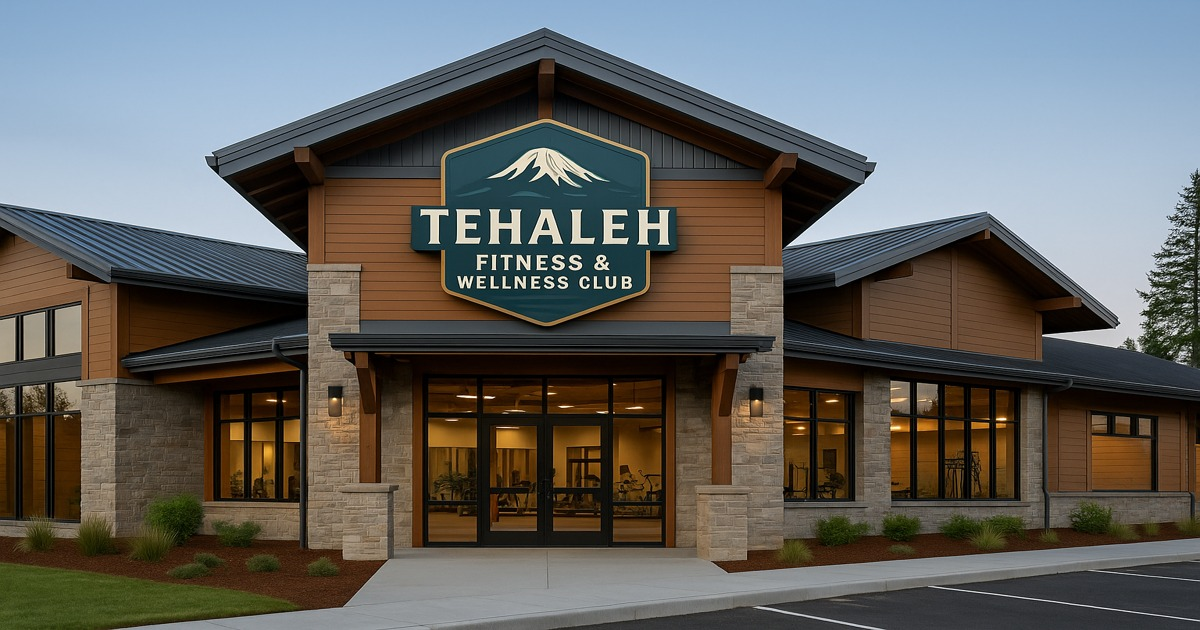
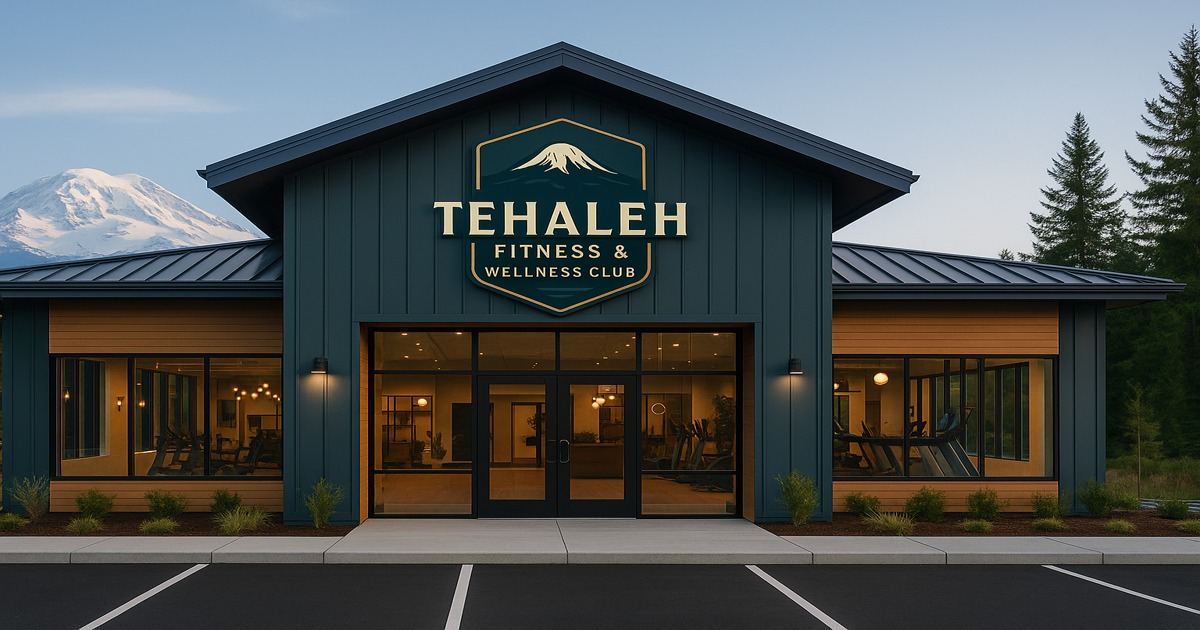
Add files via upload

diff --git a/styles.css b/styles.css
@@ -12,27 +12,34 @@ a{color:var(--brand);text-decoration:none}img{max-width:100%;height:auto;display
 .nav{display:flex;gap:18px;align-items:center}
 .nav a{color:#fff;opacity:.92}
 .nav .cta{background:var(--brand);color:#fff;padding:10px 16px;border-radius:10px;font-weight:700}
-.hero{min-height:88vh;background:url('assets/hero-exterior.jpg') center/cover no-repeat;position:relative;color:#fff;display:flex;align-items:flex-end;text-align:center}
-.hero::after{content:'';position:absolute;inset:0;background:linear-gradient(180deg,rgba(0,0,0,.3),rgba(0,0,0,.6))}
+
+/* Centered hero with strong lower-third gradient */
+.hero{min-height:88vh;background:url('assets/hero-centered.jpg') center/cover no-repeat;position:relative;color:#fff;display:flex;align-items:flex-end;justify-content:center;text-align:center}
+.hero::after{content:'';position:absolute;inset:0;
+  background:linear-gradient(180deg,rgba(0,0,0,.25) 0%, rgba(0,0,0,.25) 50%, rgba(0,0,0,.65) 85%, rgba(0,0,0,.85) 100%)} 
 .hero .inner{position:relative;z-index:1;width:100%}
-.hero .copy{width:100%;padding:60px 20px}
+.hero .copy{width:100%;padding:70px 20px 60px}
 .hero h1{font-size:clamp(28px,4.8vw,54px);margin:0 0 8px}
 .hero .sub{font-size:clamp(16px,2.6vw,20px);color:#dfe9ee;margin-bottom:18px}
 .badge{display:inline-block;background:#0f827a20;color:#dfeff0;border:1px solid #0f827a42;padding:6px 10px;border-radius:999px;font-weight:700;font-size:12px;margin-bottom:10px}
 .btn{display:inline-block;padding:14px 22px;border-radius:12px;font-weight:800;letter-spacing:.3px;border:2px solid transparent}
 .btn-primary{background:var(--brand);color:#fff}.btn-ghost{background:transparent;border-color:#ffffff80;color:#fff;margin-left:8px}
+
 .section{padding:78px 0}.title{font-size:clamp(22px,3.2vw,32px);margin:0 0 14px}
 .grid{display:grid;gap:22px}.grid-2{grid-template-columns:repeat(2,minmax(0,1fr))}.grid-3{grid-template-columns:repeat(3,minmax(0,1fr))}
 .card{background:var(--card);border:1px solid var(--border);border-radius:16px;box-shadow:0 10px 34px rgba(10,30,40,.06);padding:22px}
+
 .pricing .plan{padding:26px;border-radius:16px;border:1px solid var(--border);background:#fff}
 .price-row{display:flex;align-items:baseline;gap:10px;margin:6px 0 8px;justify-content:center}
 .price{font-size:32px;font-weight:800}
 .compare{color:#6b7b8d;text-decoration:line-through}
 .tag{display:inline-block;margin-left:6px;padding:3px 8px;border-radius:999px;background:#0f827a20;color:#0f827a;font-weight:700;font-size:12px}
 .small{font-size:13px;color:#6b7b8d}
+
 .form{display:grid;gap:14px}
 .input,.textarea{width:100%;padding:14px;border-radius:12px;border:1px solid var(--border);background:#fff;font-size:15px}
 .textarea{min-height:140px;resize:vertical}
+
 .footer{padding:30px 0;color:#5e6a78;border-top:1px solid var(--border)}
 @media (max-width:980px){.grid-2{grid-template-columns:1fr}.grid-3{grid-template-columns:1fr 1fr}}
 @media (max-width:640px){.grid-3{grid-template-columns:1fr}.nav{display:none}}

diff --git a/index.html b/index.html
@@ -4,9 +4,9 @@
   <meta charset="utf-8">
   <meta name="viewport" content="width=device-width, initial-scale=1"/>
   <title>Tehaleh Fitness & Wellness Club – Founders Presale</title>
-  <meta name="description" content="Join Tehaleh Fitness & Wellness Club as a Founding Member. Premium fitness + wellness built for Tehaleh. Lock lifetime rates.">
+  <meta name="description" content="Founders Presale runs until June 2027. Lock your lifetime rate for Tehaleh’s premium fitness & wellness club.">
   <meta property="og:title" content="Tehaleh Fitness & Wellness Club – Founders Presale">
-  <meta property="og:description" content="Founders Presale runs until June 2027. Lock your lifetime rate today.">
+  <meta property="og:description" content="Join as a Founding Member and lock your lifetime rate before June 2027.">
   <meta property="og:image" content="assets/og.jpg">
   <link rel="icon" type="image/x-icon" href="assets/favicon.ico">
   <link href="https://fonts.googleapis.com/css2?family=Inter:wght@400;600;700;800&display=swap" rel="stylesheet">
@@ -28,7 +28,7 @@
     </div>
   </header>
 
-  <section class="hero" aria-label="Exterior render of Tehaleh Fitness & Wellness Club with Mount Rainier backdrop">
+  <section class="hero" aria-label="Centered exterior render of Tehaleh Fitness & Wellness Club with Mount Rainier backdrop">
     <div class="inner container">
       <div class="copy">
         <span class="badge">Founders Presale • Limited to 500 Members • Open until June 2027</span>
